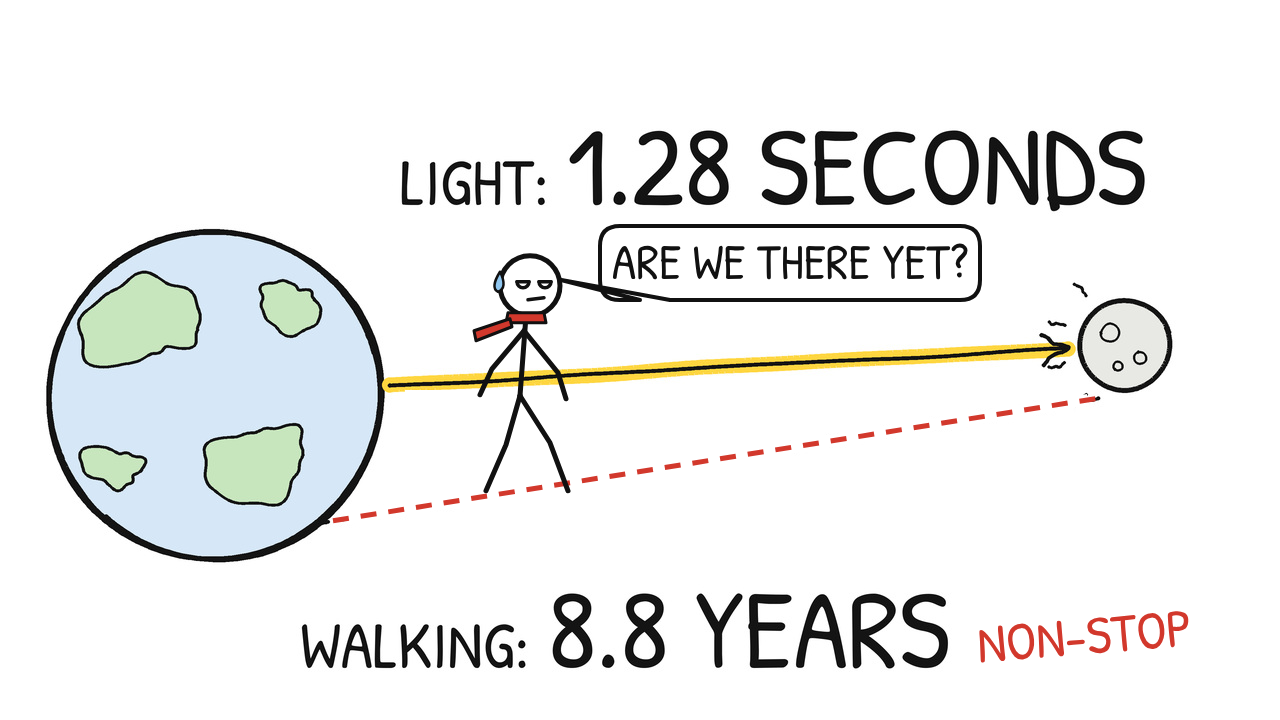
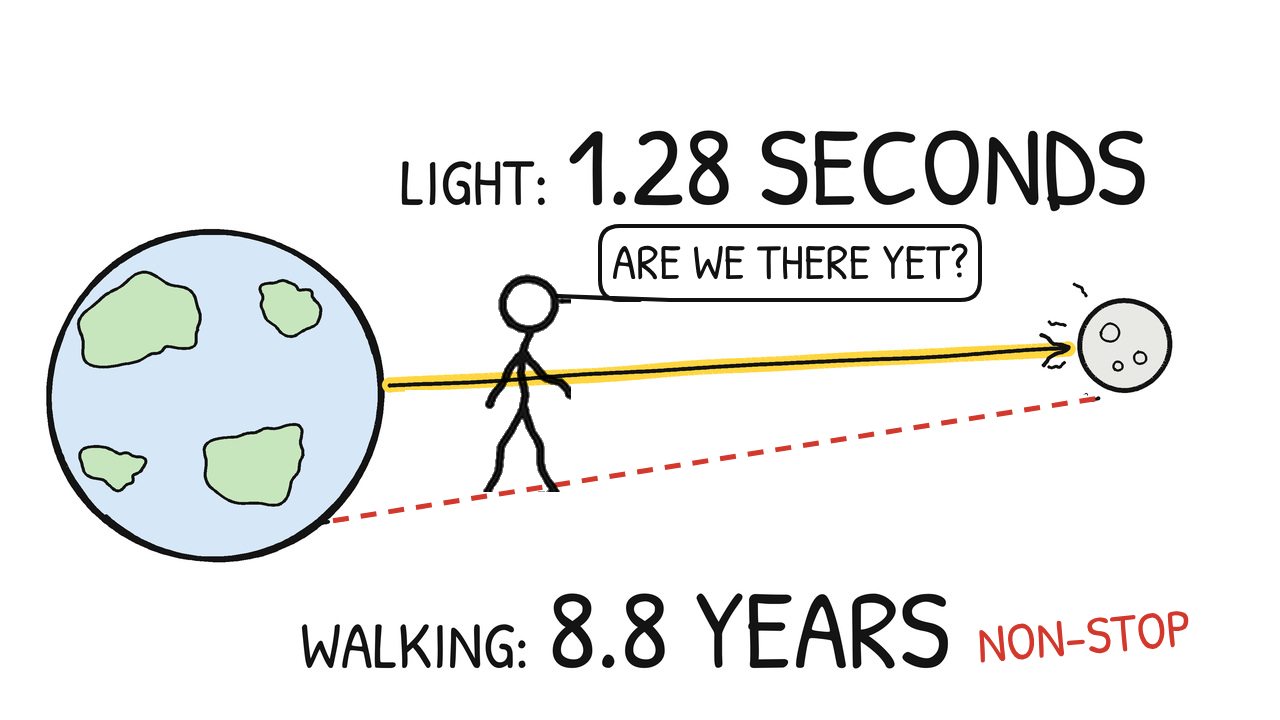
Walking to the Moon thumbnail: original stick figure, enlarged, no scarf
Claude-Session: https://claude.ai/code/session_01QZBGd8qH4EfV1MNE2nHfnB

Changed region(s): [[0.375, 0.3361, 0.5312, 0.7028]]

diff --git a/walking-to-the-moon/thumbnail/walk.html b/walking-to-the-moon/thumbnail/walk.html
@@ -9,18 +9,8 @@ window.ready=Promise.all([new Promise(r=>img.onload=r),document.fonts.load('60px
  x.strokeStyle='#fff';x.lineWidth=12;x.lineCap='butt';x.beginPath();x.moveTo(345,py(345));x.lineTo(1088,py(1088));x.stroke();
  // red dashed walking path
  x.strokeStyle=RED;x.lineWidth=5;x.setLineDash([16,12]);x.beginPath();x.moveTo(333,py(333));x.lineTo(1098,py(1098));x.stroke();x.setLineDash([]);
- // big tired walker (feet on the path), red scarf
- const fx=520,fy=py(520),s=1;x.lineCap='round';x.lineJoin='round';x.strokeStyle=INK;x.lineWidth=5;
- const hip=[fx,fy-95],neck=[fx+6,fy-175],head=[fx+10,fy-205];
- const L=(a,b,c2)=>{x.beginPath();x.moveTo(...a);x.lineTo(...b);if(c2)x.lineTo(...c2);x.stroke();};
- L(hip,[fx+30,fy-48],[fx+48,fy]);L(hip,[fx-14,fy-46],[fx-34,fy]);L(neck,hip);L([fx+4,fy-160],[fx+38,fy-118],[fx+46,fy-92]);L([fx+4,fy-160],[fx-28,fy-122],[fx-40,fy-96]);
- x.fillStyle='#fff';x.beginPath();x.arc(head[0],head[1],30,0,Math.PI*2);x.fill();x.stroke();
- // tired face: droopy lids, flat mouth, sweat drop
- x.lineWidth=3.5;for(const ex of[-11,11]){x.beginPath();x.arc(head[0]+ex+4,head[1]-4,6,0,Math.PI);x.stroke();L([head[0]+ex-2,head[1]-4],[head[0]+ex+10,head[1]-4]);}
- L([head[0]-2,head[1]+14],[head[0]+14,head[1]+12]);x.fillStyle='#8fc6ef';x.beginPath();x.moveTo(head[0]-30,head[1]-14);x.quadraticCurveTo(head[0]-40,head[1]+2,head[0]-32,head[1]+6);x.quadraticCurveTo(head[0]-22,head[1]+2,head[0]-30,head[1]-14);x.fill();x.lineWidth=2.5;x.stroke();
- // red scarf
- x.fillStyle=RED;x.lineWidth=3;x.beginPath();x.moveTo(fx-12,fy-178);x.lineTo(fx+24,fy-178);x.lineTo(fx+26,fy-168);x.lineTo(fx-14,fy-168);x.closePath();x.fill();x.stroke();
- x.beginPath();x.moveTo(fx-10,fy-172);x.lineTo(fx-46,fy-160);x.lineTo(fx-44,fy-150);x.lineTo(fx-8,fy-164);x.closePath();x.fill();x.stroke();
+ const fx=520,fy=py(520),head=[527,302];
+ x.strokeStyle=INK;x.lineCap="round";x.lineJoin="round";
  // speech bubble
  const bx=600,by=226,bw=380,bh=74;x.lineWidth=4;x.fillStyle='#fff';x.beginPath();x.moveTo(bx+20,by);x.lineTo(bx+bw-20,by);x.quadraticCurveTo(bx+bw,by,bx+bw,by+20);x.lineTo(bx+bw,by+bh-20);x.quadraticCurveTo(bx+bw,by+bh,bx+bw-20,by+bh);
  x.lineTo(bx+70,by+bh);x.lineTo(head[0]+30,head[1]-6);x.lineTo(bx+40,by+bh);x.lineTo(bx+20,by+bh);x.quadraticCurveTo(bx,by+bh,bx,by+bh-20);x.lineTo(bx,by+20);x.quadraticCurveTo(bx,by,bx+20,by);x.closePath();x.fill();x.stroke();
